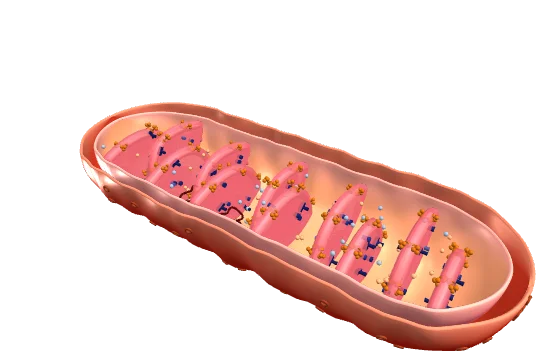
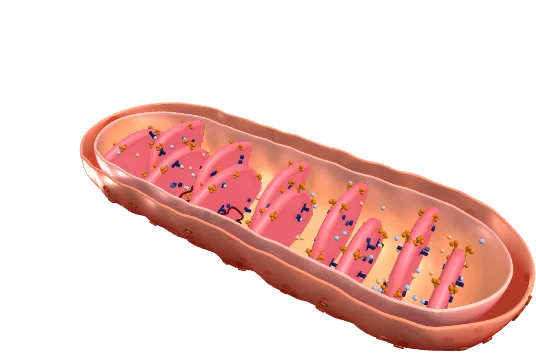
mitochondrion: the cristae and the boundary membrane are one sheet
Three causes of the seam. The crista was transparent at 0.82 while the neck
and the shell were opaque, so one hex rendered as three colours: one
MEM_FINISH now, shared. The neck was cut to the IDEAL capsule while the
shell is noise-displaced by about a membrane's thickness, so it poked out
into the intermembrane space or stopped in mid-air: welded to the wall's own
surface, found in closed form. And it was a flat-capped cylinder: now a
funnel, wide where it leaves the sac, wide where it enters the wall, pinched
to the junction's own 25 nm in between. Plate hangs closer too.

diff --git a/demos/cell/organelles.js b/demos/cell/organelles.js
@@ -913,7 +913,7 @@
       const open = clamp(o.open === undefined ? 1 : o.open, 0.3, 1);
       const cutW = PI * (1 + 0.5 * (1 - open));
       const lumenT = o.lumen === undefined ? 0.055 * r : o.lumen;     // inside a crista
-      const jGap = 0.085 * r;                                          // plate edge to inner membrane
+      const jGap = 0.055 * r;                                          // plate edge to inner membrane
       const sacHalf = lumenT / 2 + th;                                 // crista half thickness
 
       /* A capsule of radius `rad` and cylinder half-length `len`, param u in
@@ -934,7 +934,18 @@
 
       const rIn = r - th - imsGap;              // the inner membrane's outer radius
       const outerS = capsuleS(r, L), innerS = capsuleS(rIn, L);
-      const shellMat = () => mat({ vertexColors: true, roughness: 0.42, clearcoat: 0.5 });
+      /* ONE SURFACE FINISH FOR THE WHOLE INNER MEMBRANE. The boundary part,
+         every crista and every junction neck are the same sheet, so they are
+         shaded by the same numbers: same roughness, same clearcoat, same
+         opacity. They were three materials once — an opaque shell, an opaque
+         neck and a crista at 0.82 — and one hex rendered as three colours,
+         which read as three pieces bolted together. The barely-there
+         transparency is what lets the pale lumen and the protons in it ghost
+         through a crista; it is on the shell too so that nothing shows a
+         seam where the fold meets the wall. Raise it to 1 and the sacs go
+         solid; below about 0.85 they go murky and lose their shape. */
+      const MEM_FINISH = { roughness: 0.42, clearcoat: 0.5, transparent: true, opacity: 0.93 };
+      const shellMat = () => mat(Object.assign({ vertexColors: true }, MEM_FINISH));
       const RESP = global.MolPalette ? global.MolPalette.respiration : global.MolLib.PALETTE.respiration;
 
       const sub = name => { const s = new THREE.Group(); s.userData.part = name; g.add(s); return s; };
@@ -967,6 +978,28 @@
       })), shellMat());
       gInner.add(innerMesh);
 
+      /* WHERE THE INNER MEMBRANE ACTUALLY IS on a given ray, noise and all.
+         `rhoOf` answers for the IDEAL capsule, and the shell is displaced off
+         it by about one membrane's thickness — so anything welded to the wall
+         by the ideal radius either stops short of it or pierces it and hangs
+         out in the intermembrane space, and both read as a part set down
+         beside the membrane rather than continuous with it. The displacement
+         scales rho and so keeps a point on its own ray, which is what makes
+         this a search in u alone. Build time only. */
+      const wallRadius = (x, w) => {
+        /* u from x in closed form: capsuleS puts x on the profile before the
+           noise touches anything, and the noise only scales rho — so the
+           displacement never moves a point off its own ray or along the axis,
+           and there is nothing to search for. */
+        const cp = PI * rIn / 2, tot = PI * rIn + 2 * L;
+        const cl = clamp(x, -L - rIn, L + rIn);
+        const s2 = Math.abs(cl) <= L ? cp + (cl + L)
+          : cl < -L ? (Math.asin(clamp((cl + L) / rIn, -1, 1)) + PI / 2) * rIn
+                    : cp + 2 * L + Math.asin(clamp((cl - L) / rIn, -1, 1)) * rIn;
+        const p = innerS(s2 / tot, w);
+        return Math.hypot(p.y, p.z);
+      };
+
       /* Porins. A ring each, over the outer membrane only: the outer
          membrane is a sieve and the inner one is not, which is the whole
          reason a gradient can stand across the inner one. */
@@ -997,14 +1030,12 @@
          Built in the plane of the slice and turned into it: the shape is
          drawn in (sx, sy), extruded along its own z, then rotated so that z
          is the organelle's long axis. sx = -z_world, sy = y_world. */
-      /* THE CRISTA MEMBRANE IS SLIGHTLY SEE-THROUGH, and it is the only
-         transparency here. A crista is a bag and the whole point of the
-         detail is that the protons go INSIDE it; opaque, the sac reads as a
-         solid fin and a reader concludes they go into the matrix. depthWrite
-         stays on — these are convex plates, and the pale lumen inside each
-         one is opaque, so nothing sorts behind itself. */
-      const memMat = mat({ color: ORG.mitochondrion.cristaSide, roughness: 0.46, clearcoat: 0.35,
-        side: THREE.DoubleSide, transparent: true, opacity: 0.82 });
+      /* The crista, the neck and the outer face of the boundary membrane are
+         ONE material object, not three matching ones: a colour cannot drift
+         from itself. depthWrite stays on — these are convex plates and the
+         pale lumen inside each is opaque, so nothing sorts behind itself. */
+      const memMat = mat(Object.assign({ color: ORG.mitochondrion.cristaSide,
+        side: THREE.DoubleSide }, MEM_FINISH));
       const lumenMat = mat({ color: ORG.mitochondrion.lumen, roughness: 0.55, clearcoat: 0.2, side: THREE.DoubleSide });
       const inPoly = (pts, x, y) => {
         let c = false;
@@ -1014,7 +1045,6 @@
         }
         return c;
       };
-      const jMat = mat({ color: ORG.mitochondrion.cristaSide, roughness: 0.46, clearcoat: 0.35 });
       const sites = { complex: [], synthase: [] };
       const pockets = { lumen: [], matrix: [], ims: [] };
       const cristae = [];
@@ -1079,14 +1109,34 @@
           for (let i = 0; i < nJ; i++) {
             const f = f0 + ((i + 0.5) / nJ) * (f1 - f0);
             const p = P2(f);
-            const from = new V3(xk, p[1], -p[0]);
             const dir = new V3(0, p[1], -p[0]).normalize();
-            const to = from.clone().addScaledVector(dir, jGap + th);
-            const len = from.distanceTo(to);
-            const tube = new THREE.Mesh(new THREE.CylinderGeometry(sacHalf * 0.5, sacHalf * 0.62, len, 10), jMat);
-            tube.position.copy(from).lerp(to, 0.5);
-            tube.quaternion.setFromUnitVectors(new V3(0, 1, 0), dir);
-            gJunction.add(tube);
+            /* BURIED AT BOTH ENDS. The neck starts inside the sac and
+               finishes past the far face of the boundary membrane, rather
+               than running from one ideal surface to the other: the shell is
+               noise-displaced by about a membrane's thickness, so a neck cut
+               to the smooth capsule stops in mid-air wherever the wall
+               happens to bulge, and the fold reads as a part set down beside
+               the membrane instead of continuous with it. Overlap is free —
+               both ends are inside something. */
+            const from = new V3(xk, p[1], -p[0]).addScaledVector(dir, -sacHalf * 0.9);
+            // Into the wall's own thickness, stopping just short of its far
+            // face: welded, and never poking out into the space beyond.
+            const to = dir.clone().multiplyScalar(wallRadius(xk, Math.atan2(-dir.y, dir.z)) - th * 0.15);
+            to.x = xk;
+            const len = Math.max(1e-3, from.distanceTo(to));
+            /* Wide where it leaves the crista, wide where it enters the wall,
+               PINCHED IN BETWEEN. That waist is the junction: about 25 nm
+               across, held there by MICOS, and the reason a crista lumen is
+               its own pocket of protons rather than an open bay. */
+            const prof = [];
+            for (let k = 0; k <= 8; k++) {
+              const t = k / 8;
+              prof.push(new THREE.Vector2(sacHalf * (1 - 0.45 * Math.sin(PI * t)), -len / 2 + t * len));
+            }
+            const neck = new THREE.Mesh(new THREE.LatheGeometry(prof, 10), memMat);
+            neck.position.copy(from).lerp(to, 0.5);
+            neck.quaternion.setFromUnitVectors(new V3(0, 1, 0), dir);
+            gJunction.add(neck);
           }
         }
 

diff --git a/demos/cell/mitochondrion.js b/demos/cell/mitochondrion.js
@@ -52,11 +52,14 @@
  *  GLIDES: `flow`. SNAPS: `uncoupler`, and every geometry parameter, which
  *  rebuilds — nothing tweens across a rebuild.
  *
- *  BUDGET, measured on the bench at the default eleven cristae and at the
- *  cap of twenty-four: 0.06 ms a step and 0.5 ms a frame, 116k triangles and
- *  92 draw calls at the cap. A REBUILD IS 50 ms, which is why `cristae`,
- *  `open` and `seed` are rebuild parameters and must not be put on a slider a
- *  student drags — the bench does exactly that, and it is a bench.
+ *  BUDGET, measured on the bench. At the default eleven cristae: 0.05 ms a
+ *  step, 0.6 ms a frame, 121k triangles, 92 draw calls. At the cap of
+ *  twenty-four: about 2 ms a frame, 186k triangles, 183 draw calls — the
+ *  membranes are the one translucent thing here and a scene packed with sacs
+ *  is overdraw, so the cap is where to look, not the default. A REBUILD IS
+ *  ROUGHLY 0.1 s, which is why `cristae`, `open` and `seed` are rebuild
+ *  parameters and must not go on a slider a student drags. The bench does
+ *  exactly that, and it is a bench.
  *
  *  SCALE. Lengths ALONG the organelle are honest: one scene unit is 100 nm,
  *  so the capsule is 1.9 by 0.7 µm and `state()` may be printed. The
